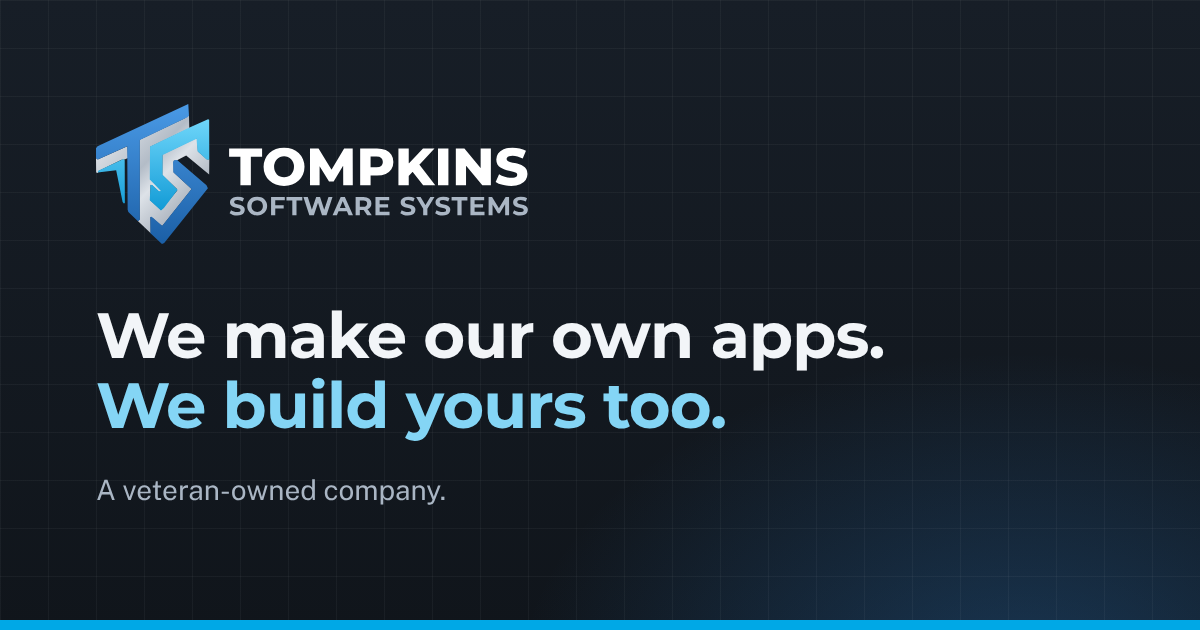
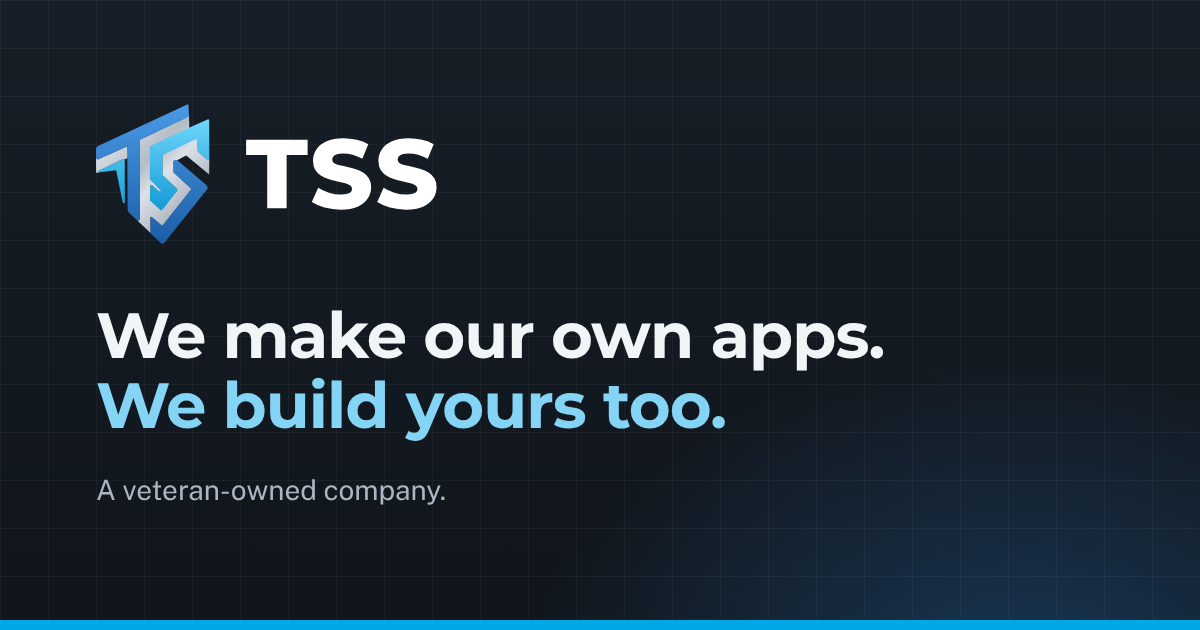
Use TSS as the everyday name; IntelliSafe page fixes
- TSS in the header and footer wordmark, the logo lockups, the social image,
  page titles, descriptions, and body copy.
- The legal name stays where it identifies the company: copyright lines, Terms
  and Privacy (each defines TSS once), IntelliSafe ownership and licensing,
  veteran-owned and vendor-file facts, the contact card, and structured data.
- Brand page: the everyday name is TSS from the first mention.
- About: the origin story no longer names a department.
- IntelliSafe: the What it does cards swipe sideways on phones, jumps to Watch
  and Try land below the header, and the captions sentence is gone (also on
  Witch Card).

Changed region(s): [[0.185, 0.2111, 0.4625, 0.3619]]

diff --git a/src/pages/products/intellisafe.html b/src/pages/products/intellisafe.html
@@ -22,7 +22,7 @@ scripts: assets/js/product.js
         <span class="badge badge-ok">Available</span>
         <span class="badge badge-dark">Browser edition</span>
         <span class="badge badge-dark">Self-hosted platform</span>
-        <span class="badge badge-dark">Licensed by Tompkins Software Systems</span>
+        <span class="badge badge-dark">Licensed by TSS</span>
       </div>
       <div class="actions">
         <a class="btn safe-btn-mint" href="{{root}}intellisafe/">Open IntelliSafe <svg viewBox="0 0 24 24" fill="none" stroke="currentColor" stroke-width="1.8" stroke-linecap="round" stroke-linejoin="round" aria-hidden="true" focusable="false"><path d="M4 12h15M13 6l6 6-6 6"/></svg></a>
@@ -46,7 +46,7 @@ scripts: assets/js/product.js
     <div class="section-head">
       <p class="safe-eyebrow">01 / Watch</p>
       <h2>Two minutes with IntelliSafe</h2>
-      <p>What a department gets, start to finish: nineteen training modules with a quiz and a certificate each, reminders that reach supervision, an eight-section incident report with diagrams and signed statements, and inspections with every item tied to its OSHA reference. Captions come on by themselves when the sound is off.</p>
+      <p>What a department gets, start to finish: nineteen training modules with a quiz and a certificate each, reminders that reach supervision, an eight-section incident report with diagrams and signed statements, and inspections with every item tied to its OSHA reference.</p>
     </div>
     <div class="watch-frame watch-safe">
       <video controls playsinline preload="metadata" poster="{{root}}assets/video/intellisafe-poster.jpg" width="1920" height="1080" aria-label="IntelliSafe in two minutes">
@@ -140,7 +140,7 @@ scripts: assets/js/product.js
       <h2>What it does</h2>
       <p>Training, quizzes, certificates, reminders, incident investigations, and inspections in one place a small department can actually run, in a browser with nothing to install or on a server the department controls.</p>
     </div>
-    <ul class="feat-grid">
+    <ul class="feat-grid swipe">
       <li><i class="safe-tile"><svg viewBox="0 0 24 24" fill="none" stroke="currentColor" stroke-width="1.8" stroke-linecap="round" stroke-linejoin="round" aria-hidden="true" focusable="false"><path d="M12 6.5C10.3 5 7.6 4.5 4 4.7v13.8c3.6-.2 6.3.3 8 1.8 1.7-1.5 4.4-2 8-1.8V4.7c-3.6-.2-6.3.3-8 1.8zM12 6.5v13.8"/></svg></i><strong>Nineteen training modules</strong><span>OSHA's ten most cited standards, pole top and bucket truck rescue, bloodborne pathogens, fire safety, electrical safety, confined spaces, ergonomics, workplace violence, and incident investigation for supervisors.</span></li>
       <li><i class="safe-tile"><svg viewBox="0 0 24 24" fill="none" stroke="currentColor" stroke-width="1.8" stroke-linecap="round" stroke-linejoin="round" aria-hidden="true" focusable="false"><path d="M12 2.8 14.3 4.6 17.2 4.4 18.1 7.2 20.6 8.7 19.8 11.5 20.6 14.3 18.1 15.8 17.2 18.6 14.3 18.4 12 20.2 9.7 18.4 6.8 18.6 5.9 15.8 3.4 14.3 4.2 11.5 3.4 8.7 5.9 7.2 6.8 4.4 9.7 4.6z"/><path d="m8.8 11.6 2.2 2.2 4.3-4.4"/></svg></i><strong>A quiz and a certificate for each</strong><span>Ten questions, 80 percent to pass, retakes allowed, every attempt recorded, and a printable certificate when it is done.</span></li>
       <li><i class="safe-tile"><svg viewBox="0 0 24 24" fill="none" stroke="currentColor" stroke-width="1.8" stroke-linecap="round" stroke-linejoin="round" aria-hidden="true" focusable="false"><path d="M6.2 16.5V11a5.8 5.8 0 0 1 11.6 0v5.5l1.6 2H4.6z"/><path d="M10 21a2.2 2.2 0 0 0 4 0"/></svg></i><strong>Reminders that reach supervision</strong><span>Email at 30 days, at 7 days, and every 7 days once overdue, with a copy to the supervisor each time. Next year's assignment creates itself.</span></li>
@@ -169,14 +169,14 @@ scripts: assets/js/product.js
               <tr><th scope="row">Reminders</th><td>Calendar reminders you download</td><td>Automatic email to employees, copied to supervisors</td></tr>
               <tr><th scope="row">Excel export</th><td>Your own training record and your inspections</td><td>By employee, team, or the whole department</td></tr>
               <tr><th scope="row">Employee accounts and compliance reports</th><td>No</td><td>Yes</td></tr>
-              <tr><th scope="row">Licensing</th><td>Free to try; department use is licensed</td><td>Department license from Tompkins Software Systems</td></tr>
+              <tr><th scope="row">Licensing</th><td>Free to try; department use is licensed</td><td>Department license from TSS</td></tr>
             </tbody>
           </table>
         </div>
         <h3>Keeping the content current</h3>
         <p>The module list follows OSHA's annual list of most frequently cited standards. The ranking lives in one data file and is updated once a year. Each module and each inspection checklist is a plain text file an administrator can edit and reload without a developer.</p>
         <h3>Licensing and credits</h3>
-        <p>IntelliSafe is owned and licensed by Tompkins Software Systems LLC and built for IntelliSafe Systems LLC. It is not affiliated with or endorsed by OSHA; its content supports a department's own safety program and does not replace the standards. The browser edition is free to try. Using it for a department's training and records requires a license agreement with Tompkins Software Systems. Licensing questions can be sent through our <a href="{{root}}contact.html">contact page</a>. For a trial of the full platform with demo accounts loaded, ask and we will set one up.</p>
+        <p>IntelliSafe is owned and licensed by Tompkins Software Systems LLC (TSS) and built for IntelliSafe Systems LLC. It is not affiliated with or endorsed by OSHA; its content supports a department's own safety program and does not replace the standards. The browser edition is free to try. Using it for a department's training and records requires a license agreement with TSS. Licensing questions can be sent through our <a href="{{root}}contact.html">contact page</a>. For a trial of the full platform with demo accounts loaded, ask and we will set one up.</p>
       </div>
     </details>
   </div>
@@ -204,7 +204,7 @@ scripts: assets/js/product.js
       <div><dt>Built for</dt><dd>IntelliSafe Systems LLC</dd></div>
       <div><dt>Runs on</dt><dd>Browser; Docker; Linux or Windows server; Render</dd></div>
       <div><dt>Data lives</dt><dd>With the department, never with us</dd></div>
-      <div><dt>Pricing</dt><dd>Free to try. Department licenses from Tompkins Software Systems.</dd></div>
+      <div><dt>Pricing</dt><dd>Free to try. Department licenses from TSS.</dd></div>
       <div><dt>Support and privacy</dt><dd><a href="{{root}}support.html#intellisafe">Support</a>, <a href="{{root}}privacy.html#intellisafe">privacy notes</a></dd></div>
     </dl>
   </div>

diff --git a/src/pages/brand.html b/src/pages/brand.html
@@ -1,6 +1,6 @@
 <!--
 title: Brand guidelines
-description: How to refer to Tompkins Software Systems and its product families: names, logo files, colors with hex values, and typefaces.
+description: How to refer to TSS and its product families: names, logo files, colors with hex values, and typefaces.
 nav: about
 priority: 0.5
 styles: assets/css/family.css
@@ -18,14 +18,14 @@ styles: assets/css/family.css
     <h2>The name</h2>
     <ul>
       <li>Legal name: <strong>Tompkins Software Systems LLC</strong>. Use it in contracts, invoices, and vendor records.</li>
-      <li>Everyday name: <strong>Tompkins Software Systems</strong> on first mention, <strong>TSS</strong> after that.</li>
+      <li>Everyday name: <strong>TSS</strong>, from the first mention. Spell out the legal name only where a document needs it.</li>
       <li>Do not use "Tompkins Software," "Tompkins Systems," or "T.S.S."</li>
       <li>Product names are written as shown on their pages: IntelliSafe, Painless Project Management, Part 107 Prep, Witch Card, Billhead, and Phantom Soldier. IntelliSafe is one word with a capital I and S. The product is owned and licensed by Tompkins Software Systems LLC and was built for IntelliSafe Systems LLC.</li>
       <li>Product families are written <strong>Upfront for Small Business</strong> and <strong>Pass Muster Training</strong> on first mention, <strong>Upfront</strong> and <strong>Pass Muster</strong> after that. See below.</li>
     </ul>
 
     <h2>Product families</h2>
-    <p>Our apps are published in families, and new families are added as the line grows. Each family is its own brand, with its own name, mark, colors, and typeface. Every app in a family keeps its own name, and its product page, the site footer, and its store listing once published say which family it belongs to. Tompkins Software Systems makes every one of them.</p>
+    <p>Our apps are published in families, and new families are added as the line grows. Each family is its own brand, with its own name, mark, colors, and typeface. Every app in a family keeps its own name, and its product page, the site footer, and its store listing once published say which family it belongs to. TSS makes every one of them.</p>
     <div class="fam-sheet fam-up">
       <span class="fam-lock"><img class="fam-mark" src="{{root}}assets/img/families/upfront-mark.svg" alt="Upfront for Small Business mark" width="40" height="40"><span class="fam-words"><span class="fam-name">Upfront</span> <span class="fam-desc">for Small Business</span></span></span>
       <ul>
@@ -55,22 +55,22 @@ styles: assets/css/family.css
     <p>Painless Project Management and Witch Card are our own apps outside the families. IntelliSafe and Phantom Soldier are customer systems, built under the customer's name: IntelliSafe is built for IntelliSafe Systems LLC and owned and licensed by us, and Phantom Soldier belongs to Project Veteran Overwatch. IBM Plex Sans and Barlow are licensed under the SIL Open Font License and self-hosted like the company typefaces.</p>
 
     <h2>Logo</h2>
-    <p>The TS shield: a T and an S locked into a shield in blue, sky blue, and brushed silver, shaded so it reads as metal, beside TOMPKINS in blue and SOFTWARE SYSTEMS in slate. On dark backgrounds the blues brighten and the words turn white and silver. The flat version, in solid blue #004a88, sky #00a8e6, and silver #8a95a5, is for print, embroidery, and anything one-color. Use the lockup where there is room and the shield alone at small sizes. Do not recolor or stretch it.</p>
+    <p>The TS shield: a T and an S locked into a shield in blue, sky blue, and brushed silver, shaded so it reads as metal, beside TSS in blue. On dark backgrounds the blues brighten and TSS turns white. The flat version, in solid blue #004a88, sky #00a8e6, and silver #8a95a5, is for print, embroidery, and anything one-color. Use the lockup where there is room and the shield alone at small sizes. Do not recolor or stretch it.</p>
     <div class="logo-sheet">
       <figure>
-        <div class="tile"><img src="{{root}}assets/img/logo.svg" alt="Tompkins Software Systems logo, for light backgrounds" width="216" height="70"></div>
+        <div class="tile"><img src="{{root}}assets/img/logo.svg" alt="TSS logo, for light backgrounds" width="172" height="70"></div>
         <figcaption><span>Lockup, light backgrounds</span><a href="{{root}}assets/img/logo.svg" download>SVG</a></figcaption>
       </figure>
       <figure>
-        <div class="tile dark"><img src="{{root}}assets/img/logo-reversed.svg" alt="Tompkins Software Systems logo, for dark backgrounds" width="216" height="70"></div>
+        <div class="tile dark"><img src="{{root}}assets/img/logo-reversed.svg" alt="TSS logo, for dark backgrounds" width="172" height="70"></div>
         <figcaption><span>Lockup, dark backgrounds</span><a href="{{root}}assets/img/logo-reversed.svg" download>SVG</a></figcaption>
       </figure>
       <figure>
-        <div class="tile"><img src="{{root}}assets/img/mark.svg" alt="Tompkins Software Systems shield" width="72" height="89"></div>
+        <div class="tile"><img src="{{root}}assets/img/mark.svg" alt="TSS shield" width="72" height="89"></div>
         <figcaption><span>Shield only</span><span><a href="{{root}}assets/img/mark.svg" download>SVG</a> &middot; <a href="{{root}}assets/img/icon-512.png" download>PNG</a></span></figcaption>
       </figure>
       <figure>
-        <div class="tile"><img src="{{root}}assets/img/logo-flat.svg" alt="Tompkins Software Systems logo in flat colors, for print" width="216" height="70"></div>
+        <div class="tile"><img src="{{root}}assets/img/logo-flat.svg" alt="TSS logo in flat colors, for print" width="172" height="70"></div>
         <figcaption><span>Flat, for print</span><span><a href="{{root}}assets/img/logo-flat.svg" download>Lockup</a> &middot; <a href="{{root}}assets/img/mark-flat.svg" download>Shield</a></span></figcaption>
       </figure>
     </div>

diff --git a/src/pages/terms.html b/src/pages/terms.html
@@ -1,6 +1,6 @@
 <!--
 title: Terms of use
-description: Terms of use for the Tompkins Software Systems website. Product licenses and customer agreements are separate.
+description: Terms of use for the TSS website. Product licenses and customer agreements are separate.
 nav: about
 priority: 0.4
 -->
@@ -18,18 +18,18 @@ priority: 0.4
       <p class="muted small">Effective November 8, 2026.</p>
 
       <h2>Who we are</h2>
-      <p>This website is operated by Tompkins Software Systems LLC, an Illinois limited liability company ("we," "us"). By using the site you agree to these terms.</p>
+      <p>This website is operated by Tompkins Software Systems LLC, an Illinois limited liability company ("TSS," "we," "us"). By using the site you agree to these terms.</p>
 
       <h2>Content on this site</h2>
-      <p>The text, design, and logo files on this site belong to Tompkins Software Systems LLC unless stated otherwise. You may quote from the site and use the logo files on the <a href="{{root}}brand.html">brand page</a> to refer to us accurately. You may not present our content as your own or use our name or logo to suggest an endorsement we have not given.</p>
+      <p>The text, design, and logo files on this site belong to TSS unless stated otherwise. You may quote from the site and use the logo files on the <a href="{{root}}brand.html">brand page</a> to refer to us accurately. You may not present our content as your own or use our name or logo to suggest an endorsement we have not given.</p>
 
       <h2>Product licenses</h2>
       <ul>
-        <li>IntelliSafe is licensed software of Tompkins Software Systems LLC, built for IntelliSafe Systems LLC. The browser edition may be used to evaluate it; using it for a department's training and records requires a license agreement with Tompkins Software Systems LLC.</li>
-        <li>The Part 107 Prep study site's code is released under the MIT License and its study content under Creative Commons Attribution 4.0. The Part 107 Prep mobile app will be published by Tompkins Software Systems LLC under the terms shown in its store listings when they open.</li>
+        <li>IntelliSafe is licensed software of TSS, built for IntelliSafe Systems LLC. The browser edition may be used to evaluate it; using it for a department's training and records requires a license agreement with TSS.</li>
+        <li>The Part 107 Prep study site's code is released under the MIT License and its study content under Creative Commons Attribution 4.0. The Part 107 Prep mobile app will be published by TSS under the terms shown in its store listings when they open.</li>
         <li>Painless Project Management's demo build is provided as is for evaluation and personal use.</li>
-        <li>Witch Card (formerly Which Card) is published by Tompkins Software Systems LLC. The App Store and Google Play versions will carry the terms shown in their listings.</li>
-        <li>Billhead is published by Tompkins Software Systems LLC. It is free during launch, any invoice under $100 stays free, and above $100 your first invoice is free. When paid downloads start, the price is shown before you pay, and an invoice you have paid for stays unlocked.</li>
+        <li>Witch Card (formerly Which Card) is published by TSS. The App Store and Google Play versions will carry the terms shown in their listings.</li>
+        <li>Billhead is published by TSS. It is free during launch, any invoice under $100 stays free, and above $100 your first invoice is free. When paid downloads start, the price is shown before you pay, and an invoice you have paid for stays unlocked.</li>
         <li>phantomsoldier.org is owned and operated by Project Veteran Overwatch under its own terms.</li>
         <li>Hosted products and custom builds are governed by the written agreement with the customer.</li>
       </ul>
@@ -48,7 +48,7 @@ priority: 0.4
       <p>Links to other sites are provided for convenience. We do not control those sites and are not responsible for their content.</p>
 
       <h2>Limitation of liability</h2>
-      <p>To the extent permitted by law, Tompkins Software Systems LLC is not liable for indirect, incidental, or consequential loss arising from the use of this website, the free editions of our apps, or reliance on their content, and our total liability for a purchase made through this site is limited to the amount you paid for it in the twelve months before the claim. If any part of these terms cannot be enforced, the rest still applies.</p>
+      <p>To the extent permitted by law, TSS is not liable for indirect, incidental, or consequential loss arising from the use of this website, the free editions of our apps, or reliance on their content, and our total liability for a purchase made through this site is limited to the amount you paid for it in the twelve months before the claim. If any part of these terms cannot be enforced, the rest still applies.</p>
 
       <h2>Governing law</h2>
       <p>These terms are governed by the laws of the State of Illinois, and any dispute about them will be heard in the state or federal courts located in Illinois.</p>

diff --git a/src/partials/head.html b/src/partials/head.html
@@ -14,7 +14,7 @@
 <link rel="preload" href="{{root}}assets/fonts/PublicSans-Variable.woff2" as="font" type="font/woff2" crossorigin>
 <link rel="stylesheet" href="{{root}}assets/css/site.css">
 <meta property="og:type" content="website">
-<meta property="og:site_name" content="Tompkins Software Systems">
+<meta property="og:site_name" content="TSS">
 <meta property="og:title" content="{{page_title}}">
 <meta property="og:description" content="{{description}}">
 <meta property="og:url" content="{{canonical}}">
@@ -26,9 +26,9 @@
 <a class="skip-link" href="#main">Skip to content</a>
 <header class="site-header">
   <div class="wrap header-row">
-    <a class="brand" href="{{root}}index.html" aria-label="Tompkins Software Systems, home">
+    <a class="brand" href="{{root}}index.html" aria-label="TSS, home">
       <svg class="mark" viewBox="0 0 80.9 100" width="32.36" height="40" aria-hidden="true" focusable="false"><defs><linearGradient id="hl-m1" x1="0" y1="0" x2="0" y2="1"><stop offset="0" stop-color="#1667b0"/><stop offset="1" stop-color="#003562"/></linearGradient><linearGradient id="hl-m2" x1="0" y1="0" x2="0" y2="1"><stop offset="0" stop-color="#4cc6f4"/><stop offset="1" stop-color="#0089c4"/></linearGradient><linearGradient id="hl-m3" x1="0" y1="0" x2="1" y2="1"><stop offset="0" stop-color="#eef1f4"/><stop offset="0.42" stop-color="#a7b0bc"/><stop offset="0.55" stop-color="#d3d9e0"/><stop offset="1" stop-color="#6f7a89"/></linearGradient><linearGradient id="hd-m1" x1="0" y1="0" x2="0" y2="1"><stop offset="0" stop-color="#4a9ae6"/><stop offset="1" stop-color="#1b5fa6"/></linearGradient><linearGradient id="hd-m2" x1="0" y1="0" x2="0" y2="1"><stop offset="0" stop-color="#6fd6fa"/><stop offset="1" stop-color="#129bd6"/></linearGradient><linearGradient id="hd-m3" x1="0" y1="0" x2="1" y2="1"><stop offset="0" stop-color="#f4f6f8"/><stop offset="0.42" stop-color="#b3bcc7"/><stop offset="0.55" stop-color="#dde2e8"/><stop offset="1" stop-color="#7f8a99"/></linearGradient></defs><path class="m3" fill="url(#hl-m3)" fill-rule="evenodd" d="M39.1 92.4 29.9 83.6 31.2 82.5 31.2 25.6 63.1 10.4 66.4 8.2 66.6 17.3 38.8 30.6 38.6 53.6 46.7 61.9 46.2 62.8 44.9 62.6 40 58 39 57.9 38.6 68.5 46.4 75.8 58 61.7 57.6 60.6 47.3 50.7 47.4 36.1 70.8 24.8 72.2 24.9 72.8 33.9 79.2 39.4 80.9 39.6 80.8 50.4 64.4 36.8 57.9 40.1 55.5 40.6 55.5 49 68.3 60.8 47.5 87 46.1 86.8 40.7 81.6 38.9 80.8Z M1.4 49.2 0.1 48.9 0 38.6 1.2 39.6 22.4 30.1 22.8 38.5 20.4 39.7 18.2 39.8 1.8 47.8Z"/><path class="m2" fill="url(#hl-m2)" fill-rule="evenodd" d="M46.4 76 38.4 68.8 38.9 57.7 40.2 57.8 45 62.4 46.4 62.1 38.4 53.9 38.6 30.4 65.6 17.3 80 10.9 80.8 11.2 80.9 39.8 78.9 39.6 72.5 33.8 71.8 24.9 47.6 36.4 47.5 50.5 58.3 61.3 48.5 74.3Z M19.9 71.1 19 70 14.4 47.3 1.2 49 1.6 47.6 19.6 39.2 20.5 40.1 20.6 70.8Z"/><path class="m1" fill="url(#hl-m1)" fill-rule="evenodd" d="M47.1 100 38.9 92.4 38.8 80.7 39.7 80.6 47.3 87 68.2 60.7 55.2 48.8 55 41.5 55.8 40.2 57.9 40 78.9 58.1 79.9 60.2 48.7 99.3Z M30 83.7 23.1 77.1 22.6 75.6 22.3 30.2 1.3 39.7 0 38.7 0 31.6 1.1 30.1 65.9 0 66.4 8.3 65.6 9.3 31.3 25.7 31.3 82.6Z"/></svg>
-      <span class="brand-name"><span class="brand-top">Tompkins</span><span class="brand-sub">Software Systems</span></span>
+      <span class="brand-name">TSS</span>
     </a>
     <button class="nav-toggle" type="button" aria-expanded="false" aria-controls="site-nav"><span class="bars" aria-hidden="true"><span></span></span><span class="label">Menu</span></button>
     <nav id="site-nav" class="site-nav" aria-label="Main">

diff --git a/src/assets/css/site.css b/src/assets/css/site.css
@@ -241,10 +241,8 @@ code { font-family: ui-monospace, "SF Mono", Menlo, Consolas, monospace; font-si
   color: var(--ink);
 }
 .brand .mark { width: auto; height: 40px; flex: none; }
-.brand-name { display: flex; flex-direction: column; line-height: 1.05; }
-/* Wordmark lines set to the same width, as in the logo */
-.brand-top { font-family: var(--font-display); font-weight: 800; font-size: 1.25rem; line-height: 1; letter-spacing: 0; text-transform: uppercase; color: var(--blue-700); }
-.brand-sub { font-family: var(--font-display); font-size: 0.62rem; font-weight: 700; letter-spacing: 0.025em; text-transform: uppercase; color: var(--steel-600); margin-top: 4px; }
+/* Wordmark: TSS, the everyday name, in the logo's Montserrat */
+.brand-name { font-family: var(--font-display); font-weight: 800; font-size: 1.75rem; line-height: 1; letter-spacing: 0.02em; color: var(--blue-700); }
 
 .nav-toggle {
   display: inline-flex; align-items: center; gap: 0.5rem;
@@ -296,8 +294,24 @@ code { font-family: ui-monospace, "SF Mono", Menlo, Consolas, monospace; font-si
   .site-nav li.nav-cta a { padding: 0.45rem 0.95rem; }
 }
 
-/* In-page anchors land below the sticky header */
+/* In-page anchors land below the sticky header (67px: 66px row and its border).
+   A jump to a full-width section puts its top edge at the header's bottom edge, so its own
+   padding shows. The home page sets this on the page itself for its one-section-per-screen
+   scrolling; cards that are sections (the families on Our products) keep their own margin. */
 main [id]:not(section) { scroll-margin-top: 84px; }
+body:not(.home) main > section[id] { scroll-margin-top: 67px; }
+
+/* ---------- Swipe rows: on phones, card groups scroll sideways instead of stacking ----------
+   site.js adds the dots after each .swipe row; each page's stylesheet sets the width
+   below which its rows swipe and shows the dots there. */
+.swipe-dots { display: none; justify-content: center; gap: 0.15rem; margin-top: 0.35rem; }
+.swipe-dots button { display: grid; place-items: center; min-width: 32px; height: 32px; padding: 0; border: 0; background: none; cursor: pointer; }
+.swipe-dots button::before { content: ""; width: 8px; height: 8px; border-radius: 999px; background: var(--stone-300); transition: width 0.2s ease, background 0.2s ease; }
+.swipe-dots button[aria-current="true"]::before { width: 22px; background: var(--blue-700); }
+.on-dark .swipe-dots button::before { background: rgba(255, 255, 255, 0.3); }
+.on-dark .swipe-dots button[aria-current="true"]::before { background: var(--sky-400); }
+.swipe::-webkit-scrollbar { display: none; }
+@media (prefers-reduced-motion: reduce) { .swipe-dots button::before { transition: none; } }
 
 /* ---------- Dark bands: hero and page heads ---------- */
 .band-dark {
@@ -538,8 +552,7 @@ form + .form-note, .form-note + form { margin-top: 0.75rem; }
 .site-footer a:hover { color: var(--sky-300); text-decoration: underline; }
 .footer-grid { display: grid; gap: 2rem; padding: 3rem 0 2.25rem; }
 .footer-brand .brand { color: var(--text-on-dark); }
-.footer-brand .brand-top { color: #fff; }
-.footer-brand .brand-sub { color: var(--muted-on-dark); }
+.footer-brand .brand-name { color: #fff; }
 .footer-brand p { margin: 1rem 0 0; max-width: 34ch; font-size: 0.95rem; }
 .footer-brand .badge { margin-top: 1rem; }
 .footer-col h3 { font-family: var(--font-body); font-size: 0.78rem; font-weight: 600; letter-spacing: 0.1em; text-transform: uppercase; color: var(--sky-400); margin-bottom: 0.8rem; }

diff --git a/src/pages/privacy.html b/src/pages/privacy.html
@@ -1,6 +1,6 @@
 <!--
 title: Privacy policy
-description: Privacy policy for the Tompkins Software Systems website, newsletter, and apps. Part 107 Prep, Witch Card, and Billhead keep what you enter on your own device.
+description: Privacy policy for the TSS website, newsletter, and apps. Part 107 Prep, Witch Card, and Billhead keep what you enter on your own device.
 nav: about
 priority: 0.6
 -->
@@ -8,14 +8,14 @@ priority: 0.6
   <div class="wrap">
     <span class="eyebrow">Privacy policy</span>
     <h1>What we collect, which is very little.</h1>
-    <p class="lede">This policy covers the Tompkins Software Systems website, the newsletter, and the products we publish. It is written to be read. If anything here is unclear, ask us and we will fix the wording.</p>
+    <p class="lede">This policy covers the TSS website, the newsletter, and the products we publish. It is written to be read. If anything here is unclear, ask us and we will fix the wording.</p>
   </div>
 </section>
 
 <section class="section">
   <div class="wrap split">
     <div class="prose">
-      <p class="muted small">Effective November 8, 2026. Tompkins Software Systems LLC, an Illinois limited liability company, is responsible for the personal information this policy says we collect.</p>
+      <p class="muted small">Effective November 8, 2026. Tompkins Software Systems LLC ("TSS"), an Illinois limited liability company, is responsible for the personal information this policy says we collect.</p>
 
       <h2 id="website">This website</h2>
       <ul>
@@ -73,7 +73,7 @@ priority: 0.6
       </ul>
 
       <h2 id="intellisafe">IntelliSafe</h2>
-      <p>IntelliSafe is operated by the department that uses it. Employee accounts, training records, quiz attempts, incident reports, statements and signatures, and inspection records are stored on the department's own server or, in the browser edition, in the user's own browser. IntelliSafe sends none of this to Tompkins Software Systems or to IntelliSafe Systems LLC. If a department has the platform hosted for it, the hosting agreement governs how the data is handled, where it is stored, and how it is returned or deleted at the end of the agreement. Training reminders and statement requests are sent by the department's own mail server.</p>
+      <p>IntelliSafe is operated by the department that uses it. Employee accounts, training records, quiz attempts, incident reports, statements and signatures, and inspection records are stored on the department's own server or, in the browser edition, in the user's own browser. IntelliSafe sends none of this to TSS or to IntelliSafe Systems LLC. If a department has the platform hosted for it, the hosting agreement governs how the data is handled, where it is stored, and how it is returned or deleted at the end of the agreement. Training reminders and statement requests are sent by the department's own mail server.</p>
 
       <h2 id="painless-pm">Painless Project Management</h2>
       <p>The public demo build stores projects only in your browser's local storage. Team versions we host for a customer are governed by that customer's hosting agreement.</p>

diff --git a/src/assets/css/home.css b/src/assets/css/home.css
@@ -39,12 +39,11 @@
 /* ---------- Header merges with the dark top ---------- */
 body.home .site-header { background: var(--steel-950); border-bottom-color: var(--table-rule); }
 body.home .site-header .brand { color: var(--text-on-dark); }
-body.home .site-header .brand-top { color: #fff; }
+body.home .site-header .brand-name { color: #fff; }
 /* On the dark home header the shield takes its brighter set (defined in the header's inline SVG) */
 body.home .site-header .mark .m1 { fill: url(#hd-m1); }
 body.home .site-header .mark .m2 { fill: url(#hd-m2); }
 body.home .site-header .mark .m3 { fill: url(#hd-m3); }
-body.home .site-header .brand-sub { color: var(--muted-on-dark); }
 body.home .site-nav a { color: var(--text-on-dark); }
 body.home .site-nav a[aria-current="page"] { color: #fff; }
 body.home .site-nav.is-open { background: var(--steel-950); border-bottom-color: var(--table-rule); }
@@ -653,8 +652,8 @@ body.home .site-nav li.nav-cta .btn-primary:hover { background: var(--sky-300); 
 .mini-prod .mp-p { color: var(--ink-2); font-size: 0.95rem; }
 @media (prefers-reduced-motion: reduce) { .door, .door-stage img, .mini-prod { animation: none; transition: none; } .door:hover, .mini-prod:hover { translate: none; } }
 
-/* ---------- Swipe rows: on phones, card groups scroll sideways instead of stacking ---------- */
-.swipe-dots { display: none; }
+/* ---------- Swipe rows: on phones, card groups scroll sideways instead of stacking ----------
+   The dots' look is in site.css; here the rows swipe, and the dots show, below 880px. */
 @media (max-width: 879px) {
   .doors.swipe, .fam-duo.swipe, .mini-grid.swipe, .built-grid.swipe, .how-list.swipe {
     display: flex; gap: 0.9rem; position: relative;
@@ -662,16 +661,9 @@ body.home .site-nav li.nav-cta .btn-primary:hover { background: var(--sky-300); 
     margin-inline: calc(-1 * var(--gutter)); padding: 0.25rem var(--gutter) 0.5rem; scroll-padding-inline: var(--gutter);
     scrollbar-width: none;
   }
-  .swipe::-webkit-scrollbar { display: none; }
   .swipe > * { flex: 0 0 86%; min-width: 0; scroll-snap-align: start; }
-  .swipe-dots { display: flex; justify-content: center; gap: 0.15rem; margin-top: 0.35rem; }
-  .swipe-dots button { display: grid; place-items: center; min-width: 32px; height: 32px; padding: 0; border: 0; background: none; cursor: pointer; }
-  .swipe-dots button::before { content: ""; width: 8px; height: 8px; border-radius: 999px; background: var(--stone-300); transition: width 0.2s ease, background 0.2s ease; }
-  .swipe-dots button[aria-current="true"]::before { width: 22px; background: var(--blue-700); }
-  .on-dark .swipe-dots button::before { background: rgba(255, 255, 255, 0.3); }
-  .on-dark .swipe-dots button[aria-current="true"]::before { background: var(--sky-400); }
+  .swipe-dots { display: flex; }
 }
-@media (max-width: 879px) and (prefers-reduced-motion: reduce) { .swipe-dots button::before { transition: none; } }
 
 /* ---------- Desktop: Also from TSS keeps its place under the families ---------- */
 @media (min-width: 880px) { #products.built { padding-bottom: 0; } .built.also { padding-top: 3rem; } }

diff --git a/src/pages/about.html b/src/pages/about.html
@@ -1,6 +1,6 @@
 <!--
 title: About
-description: Tompkins Software Systems is a veteran-owned systems developer and integrator: its own app brands and complete systems for government, business, and nonprofits.
+description: TSS is a veteran-owned systems developer and integrator: its own app brands and complete systems for government, business, and nonprofits.
 nav: about
 priority: 0.8
 -->
@@ -8,7 +8,7 @@ priority: 0.8
   <div class="wrap">
     <span class="eyebrow">About</span>
     <h1>We design, build, and integrate systems.</h1>
-    <p class="lede">Tompkins Software Systems is a veteran-owned systems developer and integrator. We publish our own brands of apps, and we build and connect complete systems for federal, state, and local government, businesses of every size, and nonprofits.</p>
+    <p class="lede">TSS is a veteran-owned systems developer and integrator. We publish our own brands of apps, and we build and connect complete systems for federal, state, and local government, businesses of every size, and nonprofits.</p>
   </div>
 </section>
 
@@ -20,7 +20,7 @@ priority: 0.8
       <p><strong>Systems for our customers.</strong> We design, build, integrate, and run complete systems under the customer's name: the people, the paperwork, the data, and the apps around them, connected to what the organization already uses. <a href="{{root}}products/intellisafe.html">IntelliSafe</a> runs annual training, incident reports, and site inspections for public works crews. <a href="{{root}}products/phantom-soldier.html">Phantom Soldier</a>, built pro bono for a veterans nonprofit, turns veterans' stories into songs. See <a href="{{root}}customer-products.html">Customer products</a>.</p>
 
       <h2>Who we are</h2>
-      <p>Tompkins Software Systems started with tools built on nights and weekends for a public works department: annual safety training that lived in a spreadsheet and incident reports filed in a drawer. That work became IntelliSafe. The company was organized on October 21, 2026, to do this work properly: under a company name, with support behind it, and with apps published under our own organization accounts.</p>
+      <p>TSS started with tools built on nights and weekends for a problem every public works crew knows: annual safety training kept in a spreadsheet and incident reports filed in a drawer. That work became IntelliSafe. The company was organized on October 21, 2026, to do this work properly: under a company name, with support behind it, and with apps published under our own organization accounts.</p>
       <p>We are a systems company, not a software shop. Code is one part of a system; the rest is understanding how the work is actually done, who does it, what has to be on record, and what it has to connect to. Every system we deliver is supported by the people who built it, and our prices are published, not hidden behind a call.</p>
 
       <h2 id="mission">Mission</h2>

diff --git a/src/partials/footer.html b/src/partials/footer.html
@@ -3,9 +3,9 @@
   <div class="wrap">
     <div class="footer-grid">
       <div class="footer-brand">
-        <a class="brand" href="{{root}}index.html" aria-label="Tompkins Software Systems, home">
+        <a class="brand" href="{{root}}index.html" aria-label="TSS, home">
           <svg class="mark" viewBox="0 0 80.9 100" width="32.36" height="40" aria-hidden="true" focusable="false"><defs><linearGradient id="fd-m1" x1="0" y1="0" x2="0" y2="1"><stop offset="0" stop-color="#4a9ae6"/><stop offset="1" stop-color="#1b5fa6"/></linearGradient><linearGradient id="fd-m2" x1="0" y1="0" x2="0" y2="1"><stop offset="0" stop-color="#6fd6fa"/><stop offset="1" stop-color="#129bd6"/></linearGradient><linearGradient id="fd-m3" x1="0" y1="0" x2="1" y2="1"><stop offset="0" stop-color="#f4f6f8"/><stop offset="0.42" stop-color="#b3bcc7"/><stop offset="0.55" stop-color="#dde2e8"/><stop offset="1" stop-color="#7f8a99"/></linearGradient></defs><path class="m3" fill="url(#fd-m3)" fill-rule="evenodd" d="M39.1 92.4 29.9 83.6 31.2 82.5 31.2 25.6 63.1 10.4 66.4 8.2 66.6 17.3 38.8 30.6 38.6 53.6 46.7 61.9 46.2 62.8 44.9 62.6 40 58 39 57.9 38.6 68.5 46.4 75.8 58 61.7 57.6 60.6 47.3 50.7 47.4 36.1 70.8 24.8 72.2 24.9 72.8 33.9 79.2 39.4 80.9 39.6 80.8 50.4 64.4 36.8 57.9 40.1 55.5 40.6 55.5 49 68.3 60.8 47.5 87 46.1 86.8 40.7 81.6 38.9 80.8Z M1.4 49.2 0.1 48.9 0 38.6 1.2 39.6 22.4 30.1 22.8 38.5 20.4 39.7 18.2 39.8 1.8 47.8Z"/><path class="m2" fill="url(#fd-m2)" fill-rule="evenodd" d="M46.4 76 38.4 68.8 38.9 57.7 40.2 57.8 45 62.4 46.4 62.1 38.4 53.9 38.6 30.4 65.6 17.3 80 10.9 80.8 11.2 80.9 39.8 78.9 39.6 72.5 33.8 71.8 24.9 47.6 36.4 47.5 50.5 58.3 61.3 48.5 74.3Z M19.9 71.1 19 70 14.4 47.3 1.2 49 1.6 47.6 19.6 39.2 20.5 40.1 20.6 70.8Z"/><path class="m1" fill="url(#fd-m1)" fill-rule="evenodd" d="M47.1 100 38.9 92.4 38.8 80.7 39.7 80.6 47.3 87 68.2 60.7 55.2 48.8 55 41.5 55.8 40.2 57.9 40 78.9 58.1 79.9 60.2 48.7 99.3Z M30 83.7 23.1 77.1 22.6 75.6 22.3 30.2 1.3 39.7 0 38.7 0 31.6 1.1 30.1 65.9 0 66.4 8.3 65.6 9.3 31.3 25.7 31.3 82.6Z"/></svg>
-          <span class="brand-name"><span class="brand-top">Tompkins</span><span class="brand-sub">Software Systems</span></span>
+          <span class="brand-name">TSS</span>
         </a>
         <p>A veteran-owned systems developer and integrator: our own brands of apps, and complete systems built for our customers.</p>
         <span class="badge badge-brass">Veteran-owned</span>

diff --git a/src/pages/customer-products.html b/src/pages/customer-products.html
@@ -1,6 +1,6 @@
 <!--
 title: Customer products
-description: Systems Tompkins Software Systems builds for customers under their name: IntelliSafe, and Phantom Soldier for Project Veteran Overwatch. How a build starts.
+description: Systems TSS builds for customers under their name: IntelliSafe, and Phantom Soldier for Project Veteran Overwatch. How a build starts.
 nav: customer
 priority: 0.9
 styles: assets/css/home.css, assets/css/family.css
@@ -24,7 +24,7 @@ styles: assets/css/home.css, assets/css/family.css
       <div class="prod-copy">
         <div class="status"><span class="badge badge-ok">Available</span><span class="badge">Built for IntelliSafe Systems LLC</span></div>
         <h3><a href="{{root}}products/intellisafe.html">IntelliSafe</a></h3>
-        <p>OSHA training, incident reports, and site inspections for public works crews. Built for IntelliSafe Systems LLC and licensed by Tompkins Software Systems.</p>
+        <p>OSHA training, incident reports, and site inspections for public works crews. Built for IntelliSafe Systems LLC and licensed by TSS.</p>
         <p><strong>For:</strong> public works directors, safety managers, and supervisors.</p>
         <div class="actions"><a class="btn btn-primary btn-small" href="{{root}}products/intellisafe.html">Product page</a><a class="btn btn-outline btn-small" href="{{root}}intellisafe/">Open IntelliSafe</a></div>
       </div>

diff --git a/src/assets/css/product.css b/src/assets/css/product.css
@@ -157,6 +157,17 @@
 .feat-grid li { margin: 0; background: var(--surface); border: 1px solid var(--stone-200); border-top: 3px solid var(--blue-600); border-radius: var(--radius); padding: 1rem 1.1rem; }
 .feat-grid strong { display: block; font-family: var(--font-display); font-size: 1.1rem; font-weight: 600; margin-bottom: 0.3rem; }
 .feat-grid span { color: var(--ink-2); font-size: 0.97rem; }
+/* Phones: a feature list marked .swipe scrolls sideways instead of stacking (site.js adds the dots) */
+@media (max-width: 639px) {
+  .feat-grid.swipe {
+    display: flex; gap: 0.9rem; position: relative;
+    overflow-x: auto; overscroll-behavior-x: contain; scroll-snap-type: x mandatory;
+    margin-inline: calc(-1 * var(--gutter)); padding: 0.25rem var(--gutter) 0.9rem; scroll-padding-inline: var(--gutter);
+    scrollbar-width: none;
+  }
+  .feat-grid.swipe > li { flex: 0 0 86%; min-width: 0; scroll-snap-align: start; }
+  .feat-grid.swipe + .swipe-dots { display: flex; margin-top: 0; }
+}
 .more { margin-top: 1.75rem; border-top: 1px solid var(--stone-300); }
 .more summary { cursor: pointer; font-weight: 600; padding: 0.9rem 0; color: var(--blue-700); list-style: none; display: flex; align-items: center; gap: 0.5rem; }
 .more summary::-webkit-details-marker { display: none; }

diff --git a/src/pages/products/part-107-prep.html b/src/pages/products/part-107-prep.html
@@ -82,7 +82,7 @@ scripts: assets/js/product.js
         <h3>Accuracy</h3>
         <p>Content was reviewed against FAA sources in October 2026, and the content date is shown inside the app. Regulations change, so confirm anything you rely on for a real flight against the current 14 CFR Part 107 and FAA guidance. Corrections are welcome through the support channel. Part 107 Prep is independent and is not affiliated with or endorsed by the FAA.</p>
         <h3>Licensing</h3>
-        <p>The study site's code is released under the MIT License and its study content under Creative Commons Attribution 4.0. The mobile app will be published by Tompkins Software Systems LLC.</p>
+        <p>The study site's code is released under the MIT License and its study content under Creative Commons Attribution 4.0. The mobile app will be published by TSS.</p>
         <h3>For municipal drone programs</h3>
         <p>If your department is standing up a drone program and needs several operators certified, the study site works on any phone with nothing to install or approve.</p>
       </div>
